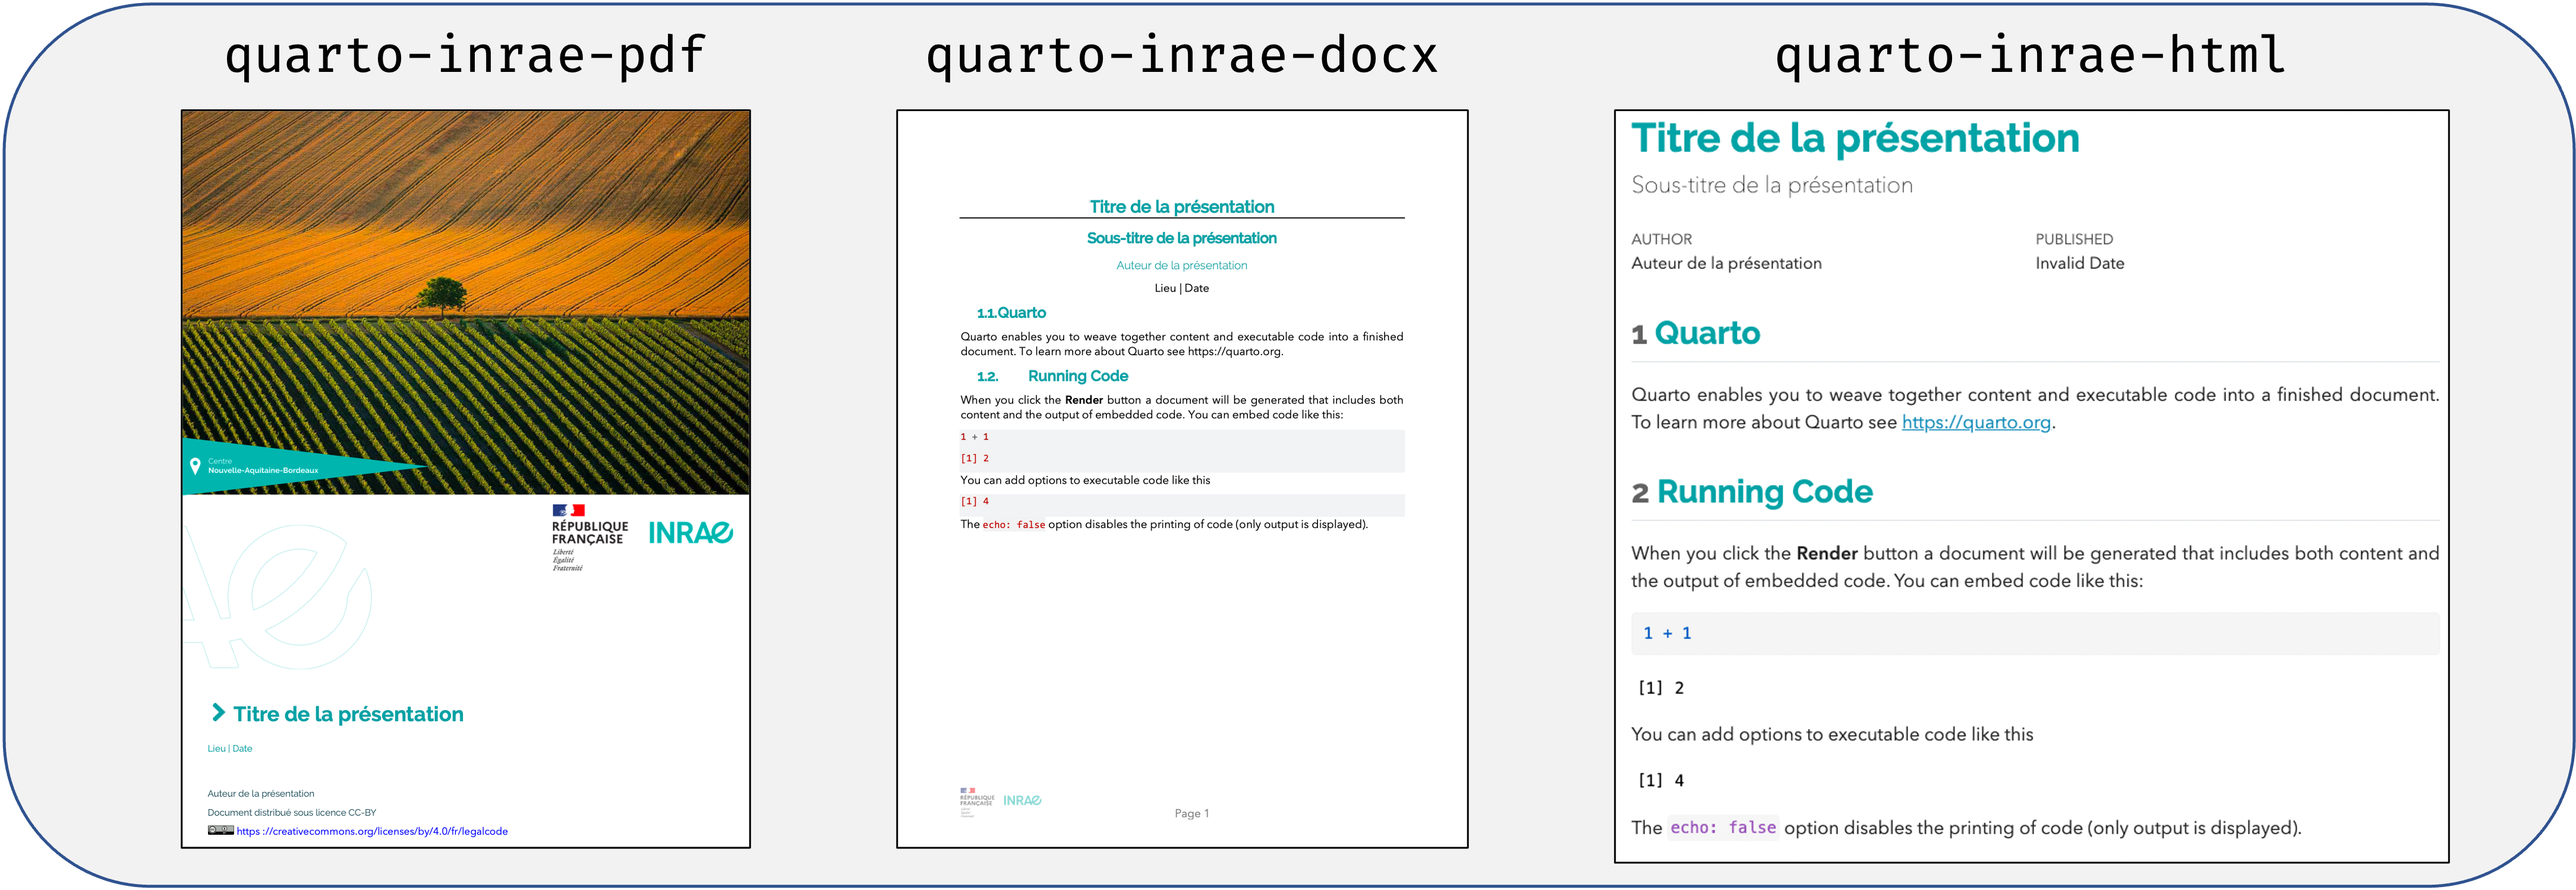
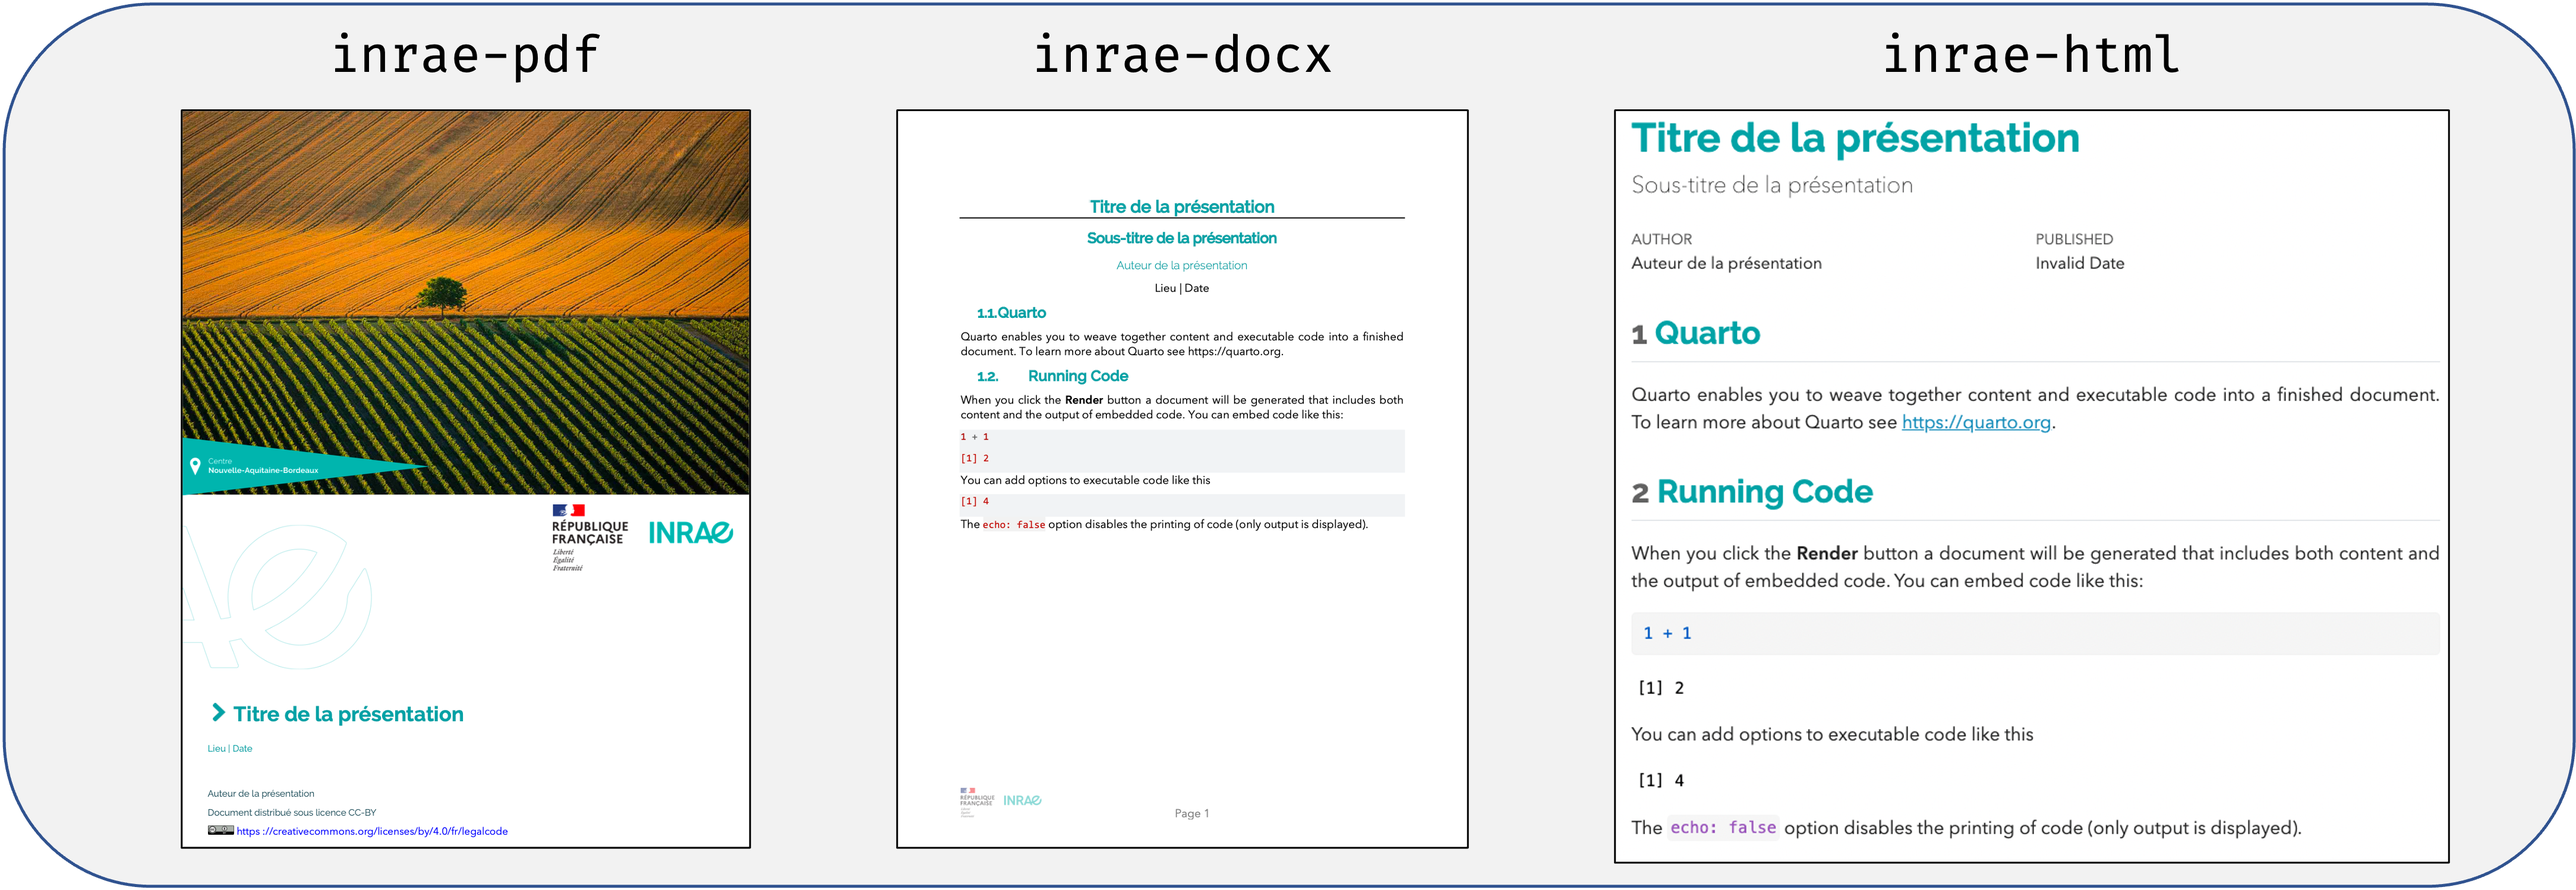
rename extension

Changed region(s): [[0.3426, 0.0307, 0.5606, 0.0921], [0.6851, 0.0307, 0.872, 0.0921], [0.0934, 0.0307, 0.2803, 0.0921]]

diff --git a/docs/index.html b/docs/index.html
@@ -26,7 +26,7 @@
     
     <a class="navbar-brand me-2" href="index.html">InraeThemes</a>
 
-    <small class="nav-text text-muted me-auto" data-bs-toggle="tooltip" data-bs-placement="bottom" title="">2.2.0</small>
+    <small class="nav-text text-muted me-auto" data-bs-toggle="tooltip" data-bs-placement="bottom" title="">2.2.1</small>
 
     
     <button class="navbar-toggler" type="button" data-bs-toggle="collapse" data-bs-target="#navbar" aria-controls="navbar" aria-expanded="false" aria-label="Toggle navigation">
@@ -252,7 +252,7 @@
 <div class="section level3">
 <h3 id="utilisation">Utilisation<a class="anchor" aria-label="anchor" href="#utilisation"></a>
 </h3>
-<p>Un template au format .Qmd sera automatiquement créé en portant le nom saisi dans le terminal. Le choix du format de sortie désiré se fait dans le YAML en rajoutant le format en suffixe à <code>quarto-inrae-*</code>. Les formats possibles sont :</p>
+<p>Un template au format .Qmd sera automatiquement créé en portant le nom saisi dans le terminal. Le choix du format de sortie désiré se fait dans le YAML en rajoutant le format en suffixe à <code>inrae-*</code>. Les formats possibles sont :</p>
 <p>Pour des slides :</p>
 <p><img src="reference/figures/cap_presentations.png"></p>
 <p>Pour des documents :</p>

diff --git a/docs/authors.html b/docs/authors.html
@@ -10,7 +10,7 @@
     
     <a class="navbar-brand me-2" href="index.html">InraeThemes</a>
 
-    <small class="nav-text text-muted me-auto" data-bs-toggle="tooltip" data-bs-placement="bottom" title="">2.2.0</small>
+    <small class="nav-text text-muted me-auto" data-bs-toggle="tooltip" data-bs-placement="bottom" title="">2.2.1</small>
 
     
     <button class="navbar-toggler" type="button" data-bs-toggle="collapse" data-bs-target="#navbar" aria-controls="navbar" aria-expanded="false" aria-label="Toggle navigation">
@@ -76,13 +76,13 @@
 
       <p>Carayon D (2022).
 <em>InraeThemes: Modèles et thèmes INRAE</em>.
-R package version 2.2.0, <a href="https://davidcarayon.github.io/InraeThemes/">https://davidcarayon.github.io/InraeThemes/</a>. 
+R package version 2.2.1, <a href="https://davidcarayon.github.io/InraeThemes/">https://davidcarayon.github.io/InraeThemes/</a>. 
 </p>
       <pre>@Manual{,
   title = {InraeThemes: Modèles et thèmes INRAE},
   author = {David Carayon},
   year = {2022},
-  note = {R package version 2.2.0},
+  note = {R package version 2.2.1},
   url = {https://davidcarayon.github.io/InraeThemes/},
 }</pre>
     </div>

diff --git a/docs/news/index.html b/docs/news/index.html
@@ -10,7 +10,7 @@
     
     <a class="navbar-brand me-2" href="../index.html">InraeThemes</a>
 
-    <small class="nav-text text-muted me-auto" data-bs-toggle="tooltip" data-bs-placement="bottom" title="">2.2.0</small>
+    <small class="nav-text text-muted me-auto" data-bs-toggle="tooltip" data-bs-placement="bottom" title="">2.2.1</small>
 
     
     <button class="navbar-toggler" type="button" data-bs-toggle="collapse" data-bs-target="#navbar" aria-controls="navbar" aria-expanded="false" aria-label="Toggle navigation">
@@ -58,6 +58,10 @@
       
     </div>
 
+    <div class="section level2">
+<h2 class="pkg-version" data-toc-text="2.2.1" id="inraethemes-221">InraeThemes 2.2.1<a class="anchor" aria-label="anchor" href="#inraethemes-221"></a></h2>
+<ul><li>Renamed the inrae format (removed the quarto- prefix)</li>
+</ul></div>
     <div class="section level2">
 <h2 class="pkg-version" data-toc-text="2.2.0" id="inraethemes-220">InraeThemes 2.2.0<a class="anchor" aria-label="anchor" href="#inraethemes-220"></a></h2>
 <ul><li>Added Quarto extension support for reports and slides</li>

diff --git a/docs/reference/new_analysis.html b/docs/reference/new_analysis.html
@@ -14,7 +14,7 @@ Inpired by ProjectTemplate"><!-- mathjax --><script src="https://cdnjs.cloudflar
     
     <a class="navbar-brand me-2" href="../index.html">InraeThemes</a>
 
-    <small class="nav-text text-muted me-auto" data-bs-toggle="tooltip" data-bs-placement="bottom" title="">2.2.0</small>
+    <small class="nav-text text-muted me-auto" data-bs-toggle="tooltip" data-bs-placement="bottom" title="">2.2.1</small>
 
     
     <button class="navbar-toggler" type="button" data-bs-toggle="collapse" data-bs-target="#navbar" aria-controls="navbar" aria-expanded="false" aria-label="Toggle navigation">

diff --git a/docs/404.html b/docs/404.html
@@ -24,7 +24,7 @@
     
     <a class="navbar-brand me-2" href="https://davidcarayon.github.io/InraeThemes/index.html">InraeThemes</a>
 
-    <small class="nav-text text-muted me-auto" data-bs-toggle="tooltip" data-bs-placement="bottom" title="">2.2.0</small>
+    <small class="nav-text text-muted me-auto" data-bs-toggle="tooltip" data-bs-placement="bottom" title="">2.2.1</small>
 
     
     <button class="navbar-toggler" type="button" data-bs-toggle="collapse" data-bs-target="#navbar" aria-controls="navbar" aria-expanded="false" aria-label="Toggle navigation">

diff --git a/docs/reference/bs_inrae.html b/docs/reference/bs_inrae.html
@@ -10,7 +10,7 @@
     
     <a class="navbar-brand me-2" href="../index.html">InraeThemes</a>
 
-    <small class="nav-text text-muted me-auto" data-bs-toggle="tooltip" data-bs-placement="bottom" title="">2.2.0</small>
+    <small class="nav-text text-muted me-auto" data-bs-toggle="tooltip" data-bs-placement="bottom" title="">2.2.1</small>
 
     
     <button class="navbar-toggler" type="button" data-bs-toggle="collapse" data-bs-target="#navbar" aria-controls="navbar" aria-expanded="false" aria-label="Toggle navigation">

diff --git a/docs/reference/couleurs_inrae.html b/docs/reference/couleurs_inrae.html
@@ -10,7 +10,7 @@
     
     <a class="navbar-brand me-2" href="../index.html">InraeThemes</a>
 
-    <small class="nav-text text-muted me-auto" data-bs-toggle="tooltip" data-bs-placement="bottom" title="">2.2.0</small>
+    <small class="nav-text text-muted me-auto" data-bs-toggle="tooltip" data-bs-placement="bottom" title="">2.2.1</small>
 
     
     <button class="navbar-toggler" type="button" data-bs-toggle="collapse" data-bs-target="#navbar" aria-controls="navbar" aria-expanded="false" aria-label="Toggle navigation">

diff --git a/docs/reference/create_book.html b/docs/reference/create_book.html
@@ -10,7 +10,7 @@
     
     <a class="navbar-brand me-2" href="../index.html">InraeThemes</a>
 
-    <small class="nav-text text-muted me-auto" data-bs-toggle="tooltip" data-bs-placement="bottom" title="">2.2.0</small>
+    <small class="nav-text text-muted me-auto" data-bs-toggle="tooltip" data-bs-placement="bottom" title="">2.2.1</small>
 
     
     <button class="navbar-toggler" type="button" data-bs-toggle="collapse" data-bs-target="#navbar" aria-controls="navbar" aria-expanded="false" aria-label="Toggle navigation">

diff --git a/docs/reference/example_datasets.html b/docs/reference/example_datasets.html
@@ -10,7 +10,7 @@
     
     <a class="navbar-brand me-2" href="../index.html">InraeThemes</a>
 
-    <small class="nav-text text-muted me-auto" data-bs-toggle="tooltip" data-bs-placement="bottom" title="">2.2.0</small>
+    <small class="nav-text text-muted me-auto" data-bs-toggle="tooltip" data-bs-placement="bottom" title="">2.2.1</small>
 
     
     <button class="navbar-toggler" type="button" data-bs-toggle="collapse" data-bs-target="#navbar" aria-controls="navbar" aria-expanded="false" aria-label="Toggle navigation">

diff --git a/docs/reference/index.html b/docs/reference/index.html
@@ -10,7 +10,7 @@
     
     <a class="navbar-brand me-2" href="../index.html">InraeThemes</a>
 
-    <small class="nav-text text-muted me-auto" data-bs-toggle="tooltip" data-bs-placement="bottom" title="">2.2.0</small>
+    <small class="nav-text text-muted me-auto" data-bs-toggle="tooltip" data-bs-placement="bottom" title="">2.2.1</small>
 
     
     <button class="navbar-toggler" type="button" data-bs-toggle="collapse" data-bs-target="#navbar" aria-controls="navbar" aria-expanded="false" aria-label="Toggle navigation">

diff --git a/docs/reference/palette_inrae.html b/docs/reference/palette_inrae.html
@@ -10,7 +10,7 @@
     
     <a class="navbar-brand me-2" href="../index.html">InraeThemes</a>
 
-    <small class="nav-text text-muted me-auto" data-bs-toggle="tooltip" data-bs-placement="bottom" title="">2.2.0</small>
+    <small class="nav-text text-muted me-auto" data-bs-toggle="tooltip" data-bs-placement="bottom" title="">2.2.1</small>
 
     
     <button class="navbar-toggler" type="button" data-bs-toggle="collapse" data-bs-target="#navbar" aria-controls="navbar" aria-expanded="false" aria-label="Toggle navigation">

diff --git a/docs/reference/scale_color_inrae.html b/docs/reference/scale_color_inrae.html
@@ -10,7 +10,7 @@
     
     <a class="navbar-brand me-2" href="../index.html">InraeThemes</a>
 
-    <small class="nav-text text-muted me-auto" data-bs-toggle="tooltip" data-bs-placement="bottom" title="">2.2.0</small>
+    <small class="nav-text text-muted me-auto" data-bs-toggle="tooltip" data-bs-placement="bottom" title="">2.2.1</small>
 
     
     <button class="navbar-toggler" type="button" data-bs-toggle="collapse" data-bs-target="#navbar" aria-controls="navbar" aria-expanded="false" aria-label="Toggle navigation">
